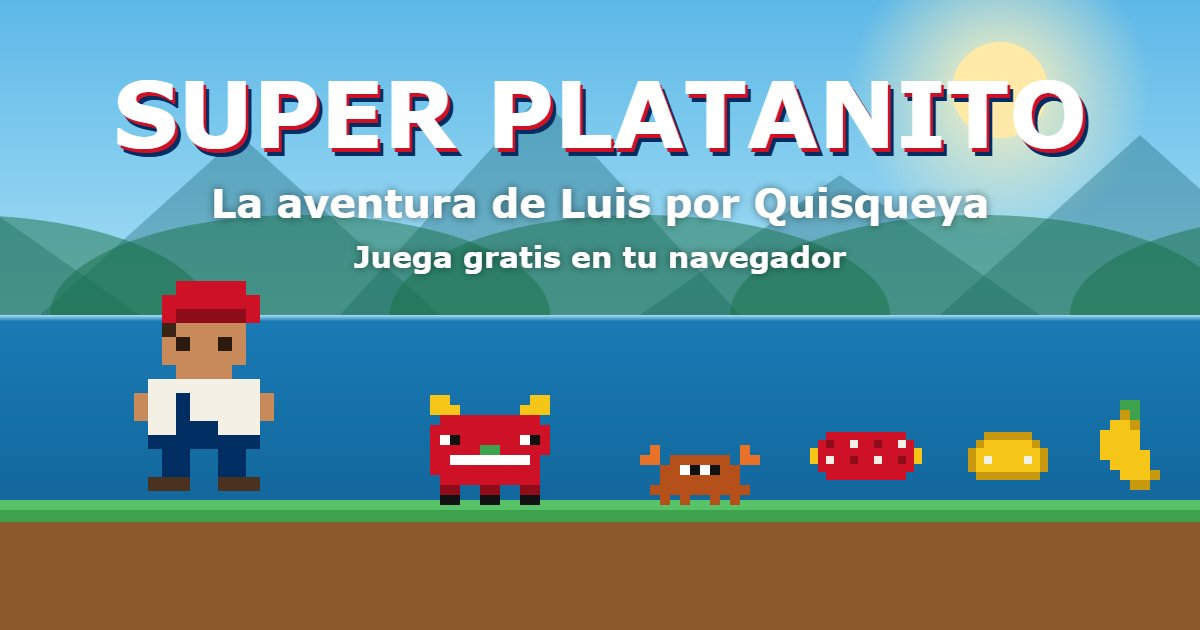
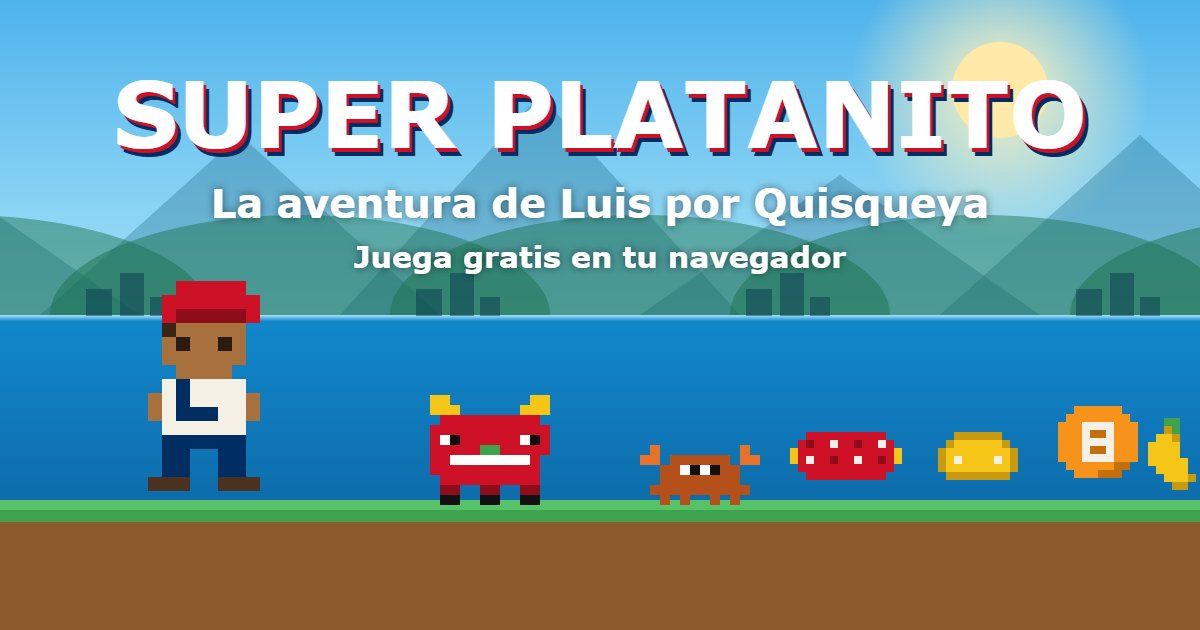
Luis redesign: slimmer build, darker skin, L moved up on shirt; regenerate cover

diff --git a/index.html b/index.html
@@ -243,7 +243,7 @@ document.getElementById('btnMute').addEventListener('click', () => {
 // Pixel sprites (string art -> canvas)
 // ------------------------------------------------------------
 const PAL = {
-  R: '#ce1126', r: '#8f0c1b', S: '#c98a5b', E: '#2a1a10', H: '#3a2415',
+  R: '#ce1126', r: '#8f0c1b', S: '#a8703d', E: '#2a1a10', H: '#3a2415',
   W: '#f4f0e6', B: '#002d62', b: '#2a5bd7', D: '#4a3120',
   Y: '#f5c518', y: '#c99a10', G: '#3fa34d', g: '#2a7a38',
   O: '#e8722a', o: '#b5501a', T: '#ffffff', K: '#111111', P: '#7a3fa3',
@@ -278,11 +278,11 @@ const playerBase = [
   '...SESSES...',
   '...SSSSSS...',
   '....SSSS....',
-  '..WWWWWWWW..',
-  '.SWWBWWWWWS.',
-  '.SWWBWWWWWS.',
-  '..WWBBBWWW..',
-  '..BBBBBBBB..',
+  '...WBWWWW...',
+  '..SWBWWWWS..',
+  '..SWBBBWWS..',
+  '...WWWWWW...',
+  '...BBBBBB...',
 ];
 const legsStand = ['...BB..BB...', '...BB..BB...', '..DDD..DDD..', '............'];
 const legsRun   = ['..BB....BB..', '.BB......BB.', '.DDD....DDD.', '............'];
@@ -674,7 +674,7 @@ const game = {
   cheese: [], levelNum: 1, startLevel: 1, interTimer: 0, bitcoins: 0,
 };
 const player = {
-  x: 0, y: 0, w: 20, h: 28, vx: 0, vy: 0,
+  x: 0, y: 0, w: 16, h: 28, vx: 0, vy: 0,
   onGround: false, coyote: 0, facing: 1, animT: 0, dying: false,
   power: 0, inv: 0, throwCd: 0,
 };
@@ -1213,8 +1213,8 @@ function render() {
   } else spr = player.facing >= 0 ? SPR.stand : SPR.standL;
   const flicker = player.inv > 0 && Math.floor(player.inv * 12) % 2 === 0;
   if (!flicker) {
-    if (player.power > 0) g.drawImage(spr, player.x - 5, player.y + player.h - 38, 30, 40);
-    else g.drawImage(spr, player.x - 2, player.y + player.h - 30, 24, 32);
+    if (player.power > 0) g.drawImage(spr, player.x - 7, player.y + player.h - 38, 30, 40);
+    else g.drawImage(spr, player.x - 4, player.y + player.h - 30, 24, 32);
   }
 
   g.restore();